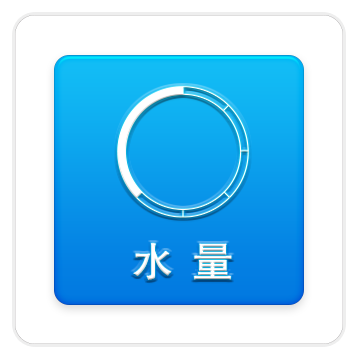
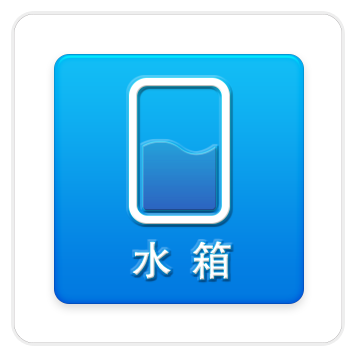
更新部分图标样式

diff --git a/TLInfoDisplayPage.qml b/TLInfoDisplayPage.qml
@@ -185,7 +185,7 @@ Rectangle {
                 }
                 Text {
                     id: text_water
-                    text: qsTr("1")
+                    text: qsTr("")
                     width: parent.width * 0.5
                     height: parent.height
                     verticalAlignment: Text.AlignVCenter
@@ -201,7 +201,7 @@ Rectangle {
                         bottom: parent.bottom
                         bottomMargin: height * 0.1
                     }
-                    text: qsTr("%")
+                    text: qsTr("")
                     width: parent.width * 0.3
                     height: parent.height * 0.8
                     verticalAlignment: Text.AlignVCenter

diff --git a/UserManagePage.qml b/UserManagePage.qml
@@ -584,11 +584,12 @@ Rectangle {
                     contentItem: Text {
                         width: parent.width
                         height: parent.height * 0.8
-                        font.pixelSize: parent.height * 0.53
+                        font.pixelSize: parent.height * 0.52
                         text: qsTr("add")
                         color: "white"
                         horizontalAlignment: Text.AlignHCenter
                         anchors.top: parent.top
+                        anchors.topMargin: parent.height * 0.05
                     }
 
                     //                enabled: list_view_user.currentIndex === -1 ? false : true

diff --git a/TaskProcess.qml b/TaskProcess.qml
@@ -314,8 +314,8 @@ Rectangle {
         id: repeat_need_stop_task
         cancel: true
         ok: true
-        height: parent.height * 0.5
-        width: height * 1.5
+        height: 280
+        width: 420
         x: (root_main.width - width ) / 2
         y: (root_main.height - height ) / 2
         cancel_text: qsTr("cancel")
@@ -327,6 +327,7 @@ Rectangle {
             map_task_manager.sendStopTaskCommond()
             repeat_need_stop_task.close()
             stopTaskCommond()
+            btn_stop._is_pause = false
         }
 
     }

diff --git a/VerifyPasswordPage.qml b/VerifyPasswordPage.qml
@@ -18,7 +18,7 @@ Item {
         closePolicy: Popup.CloseOnPressOutsideParent
         background: Rectangle {
             anchors.fill: parent
-            opacity: 0.5
+            opacity: 0.3
             RadialGradient {
                 anchors.fill: parent
                 gradient: Gradient

diff --git a/MonitorMessagePage.qml b/MonitorMessagePage.qml
@@ -26,6 +26,7 @@ Item {
     Connections {
         target: ros_message_manager
         onUpdateMonitorMessageInfo: {
+            console.info("21212121212")
             message_list_model.clear()
             root.has_error = true
             if (!is_first_get_error) {

diff --git a/VehicleItem.qml b/VehicleItem.qml
@@ -24,6 +24,7 @@ Rectangle {
         anchors.left: rect.right
         color: "transparent"
         Image {
+            smooth: true
             anchors.fill: parent
             source: "qrc:/res/pictures/car.png"
         }
